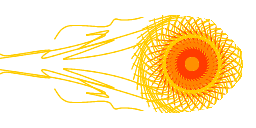
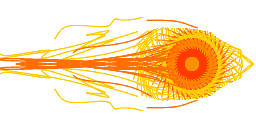
Lab3, background: refactoring; edit graphics & sprites

diff --git a/Lab3/background.py b/Lab3/background.py
@@ -27,14 +27,13 @@ class Stars:
         assert count > 0
         return [(randint(0, surface.get_width()), randint(0, surface.get_height())) for _ in range(count)]
 
-    def __init__(self, distance, speed, star_size, reverse=False):
+    def __init__(self, distance, speed, star_size):
         assert distance >= 0
         self.distance = distance
         self.speed = speed
         self.star_size = star_size
         self.star = None
         self.sprite_index = Stars.index(self.speed)
-        self.reverse = reverse
         self._load_sprites()
 
     def _load_sprites(self):
@@ -42,7 +41,7 @@ class Stars:
         self.star = pygame.image.load(Stars.graphics_path + Stars.star_sprite % self.sprite_index).convert_alpha()
         self.star = pygame.transform.scale(self.star, (
             int(self.star_size * self.star.get_width() / self.star.get_height()), self.star_size))
-        if self.reverse:
+        if self.speed < 0:
             self.star = pygame.transform.flip(self.star, True, False)
 
     def draw(self, layer: pygame.Surface, coordinates, blink=True):
@@ -59,12 +58,11 @@ class FalseDepthBackground:
     depth_delta = 10
     depth_factor = 0.8  # depth_factor size & speed for depth = depth_delta; depth_factor^2 for depth = 2*depth_delta, ...
 
-    def __init__(self, layer_count=2, initial_speed=40, background_depth=100):
+    def __init__(self, layer_count=2, initial_speed=40, background_depth=100, star_size=7):
         assert layer_count > 0 and type(layer_count) == int
         assert initial_speed >= 0
         assert background_depth >= layer_count * 10 and type(background_depth) == int
 
-        self.is_reverse = False
         self.layer_count = layer_count
         self.movement_speed = initial_speed
         self.background_depth = background_depth
@@ -73,7 +71,7 @@ class FalseDepthBackground:
         self.layers_speed = []
         self.layers_translate = [0] * layer_count
         self.layer_star_coords = []
-        self.star_size = 15
+        self.star_size = star_size
 
     def _eval_layer_params(self):
         cur_layer_distance = self.background_depth
@@ -88,6 +86,19 @@ class FalseDepthBackground:
             cur_layer_speed_percent /= FalseDepthBackground.depth_factor
             self.layers_speed.append(cur_layer_speed)
 
+    def _update_layer_params(self):
+        cur_layer_distance = self.background_depth
+        cur_layer_speed_percent = pow(FalseDepthBackground.depth_factor,
+                                      self.background_depth // FalseDepthBackground.depth_delta)
+        d_distance = self.background_depth // self.layer_count
+
+        for i in range(self.layer_count):
+            self.layers_distance[i] = cur_layer_distance
+            cur_layer_distance = max(0, cur_layer_distance - d_distance)
+            cur_layer_speed = self.movement_speed * cur_layer_speed_percent
+            cur_layer_speed_percent /= FalseDepthBackground.depth_factor
+            self.layers_speed[i] = cur_layer_speed
+
     def _init_layers(self, screen: pygame.Surface):
         colors = ["red", "green"]
         for i in range(self.layer_count):
@@ -100,7 +111,7 @@ class FalseDepthBackground:
         distance = self.layers_distance[layer_index]
         speed = self.layers_speed[layer_index]
         coordinates = self.layer_star_coords[layer_index]
-        Stars(distance, speed, self.star_size, reverse=self.is_reverse).draw(layer, coordinates, True)
+        Stars(distance, speed, self.star_size).draw(layer, coordinates, True)
 
         screen.blit(layer, (self.layers_translate[layer_index], 0))
         screen.blit(layer, (self.layers_translate[layer_index] - layer.get_width(), 0))
@@ -117,12 +128,13 @@ class FalseDepthBackground:
 
     def speed_up(self, delta):
         self.movement_speed += delta
+        self._update_layer_params()
 
     def slow_down(self, delta):
-        self.movement_speed = max(0, self.movement_speed - delta)
+        self.movement_speed -= delta
+        self._update_layer_params()
 
     def reverse(self):
-        self.is_reverse = not self.is_reverse
         self.movement_speed = -self.movement_speed
         self.layers_translate = [-x for x in self.layers_translate]
 

diff --git a/Lab3/lab3.py b/Lab3/lab3.py
@@ -37,10 +37,12 @@ class Lab3:
         self.screen = self._pygame_screen_setup()
 
     def speed_up(self):
-        print("a pressed")
+        self.background.speed_up(100)
+        print("speed up")
 
     def slow_down(self):
-        print("b pressed")
+        self.background.slow_down(100)
+        print("slow down")
 
     def _setup_hotkeys(self):
         with keyboard.GlobalHotKeys({
@@ -81,7 +83,8 @@ class Lab3:
 if __name__ == '__main__':
     from pygame.locals import *
 
-    lab3 = Lab3(bg_layer_count=15, initial_speed=2000,bg_depth=300)
+    lab3 = Lab3(bg_layer_count=15, initial_speed=0,bg_depth=200)
     lab3.setup()
-    #lab3.background.reverse()
+    lab3.background.reverse()
+    lab3.background.star_size=7
     lab3.mainloop()
